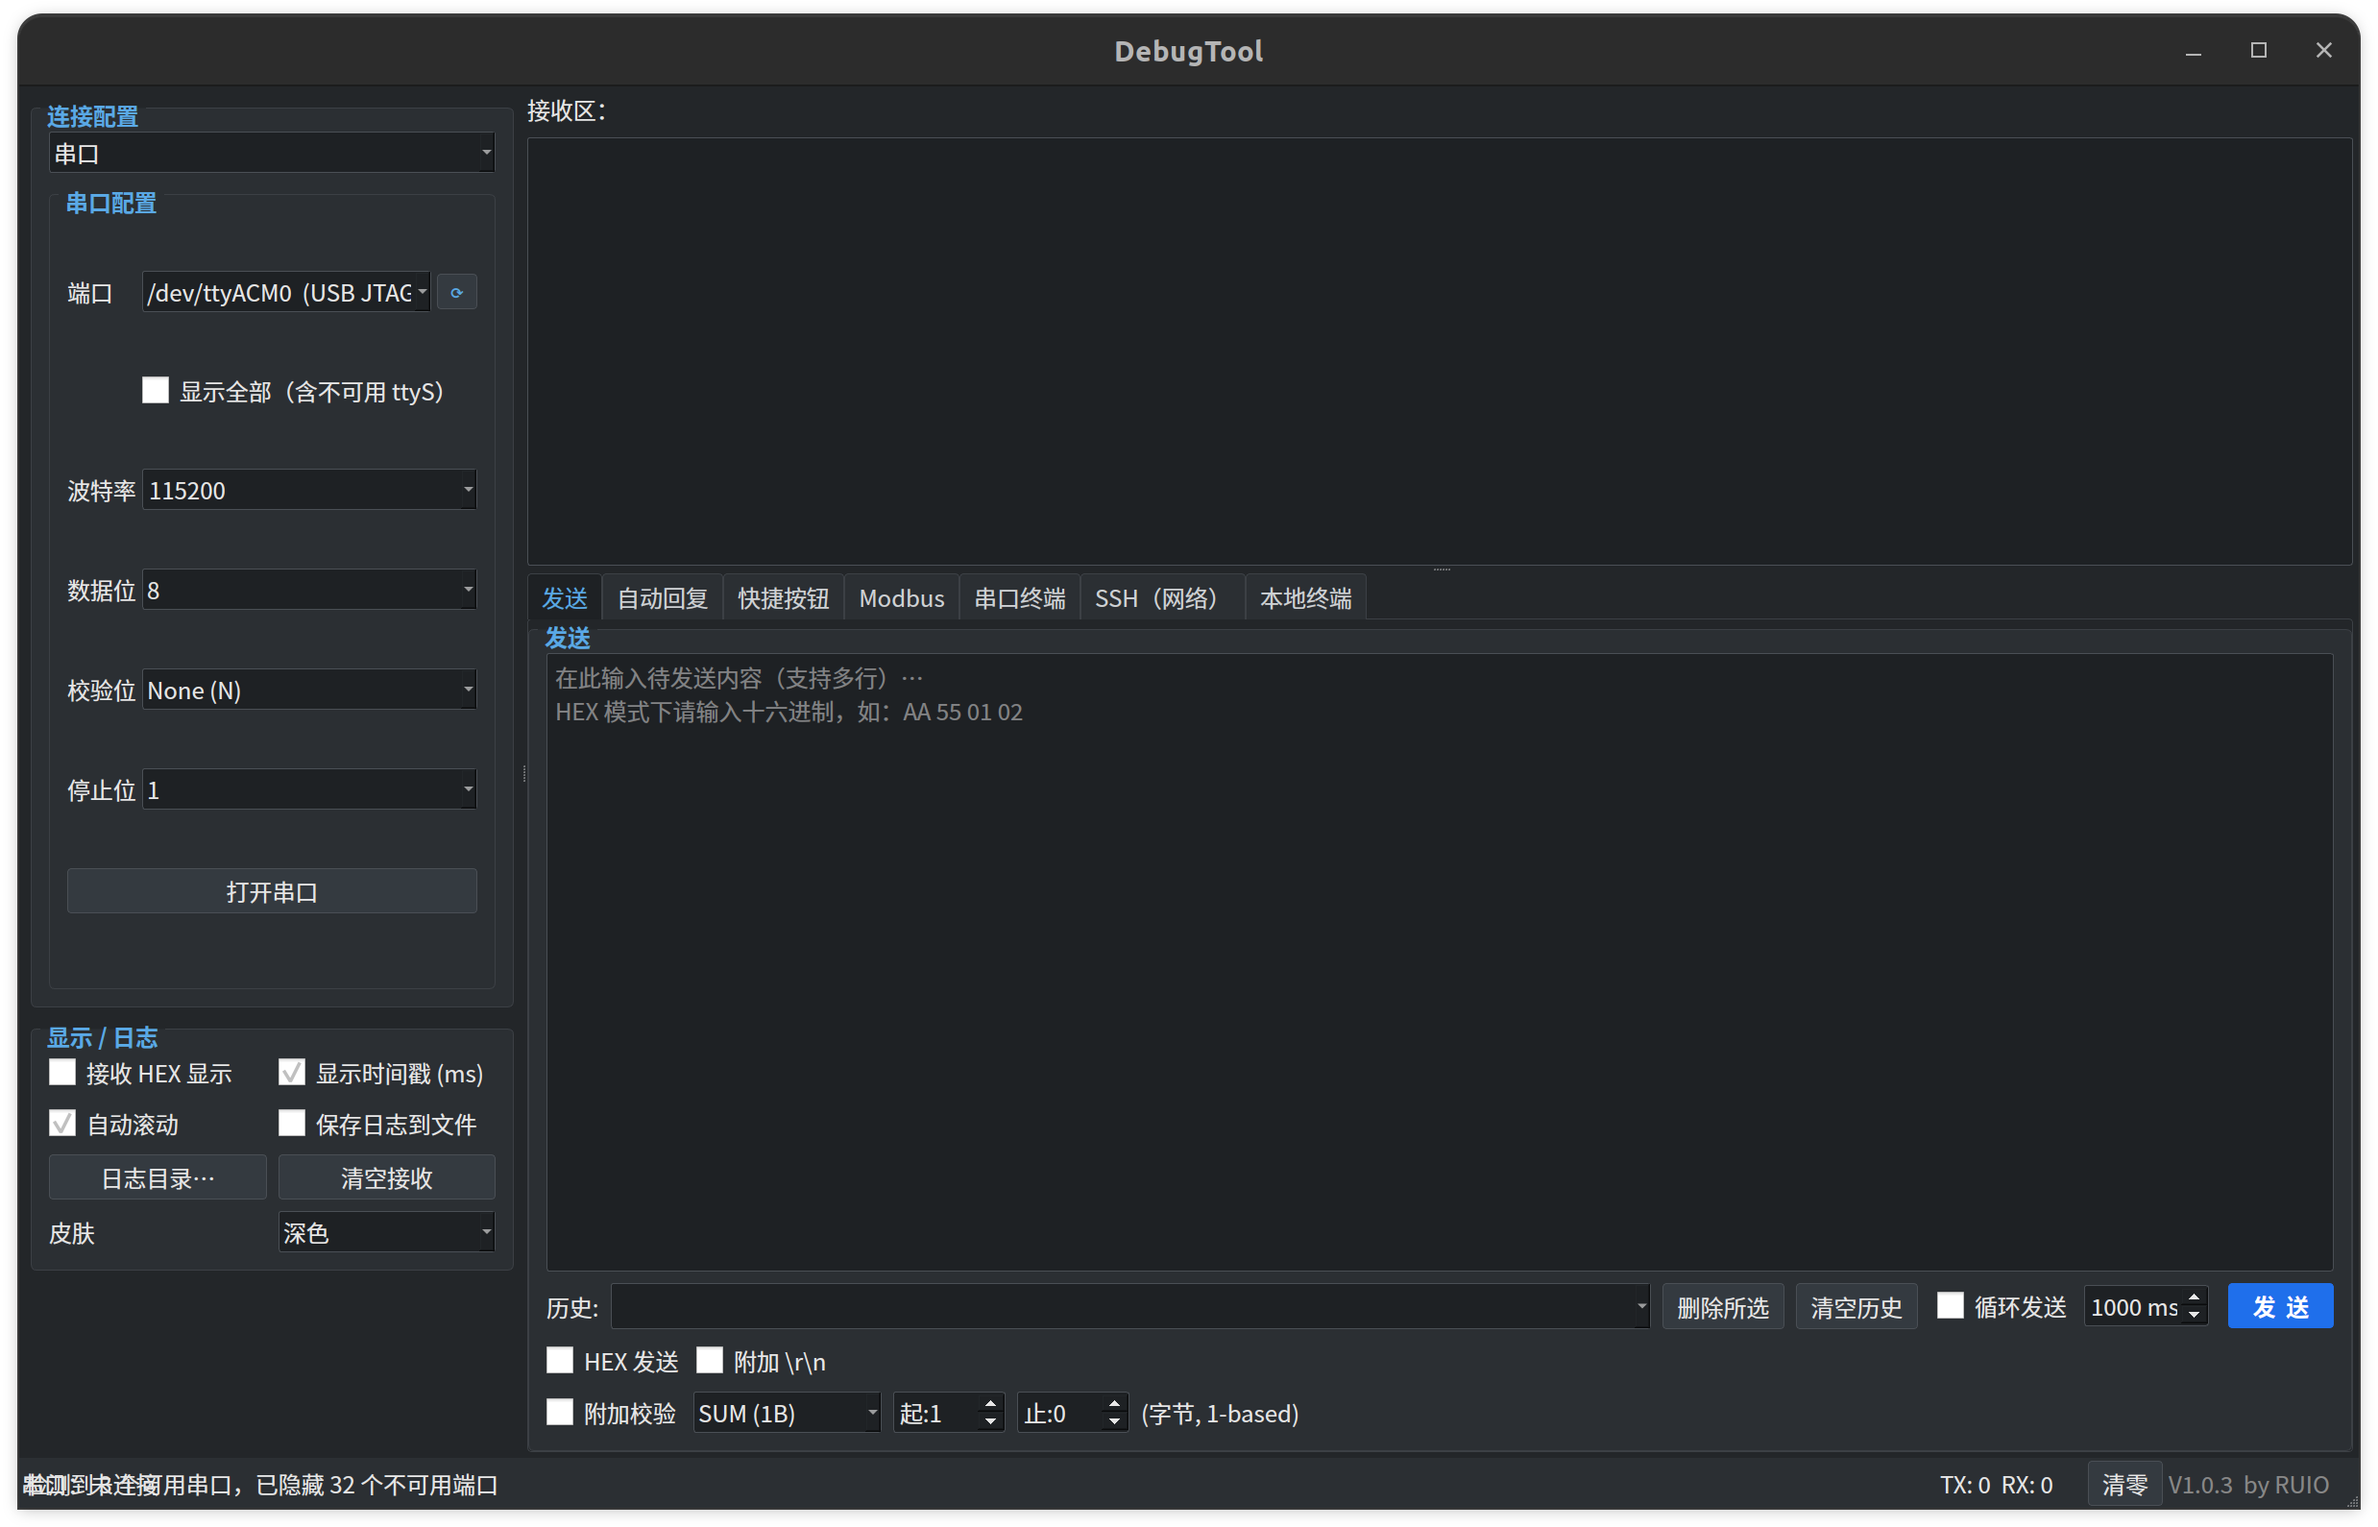
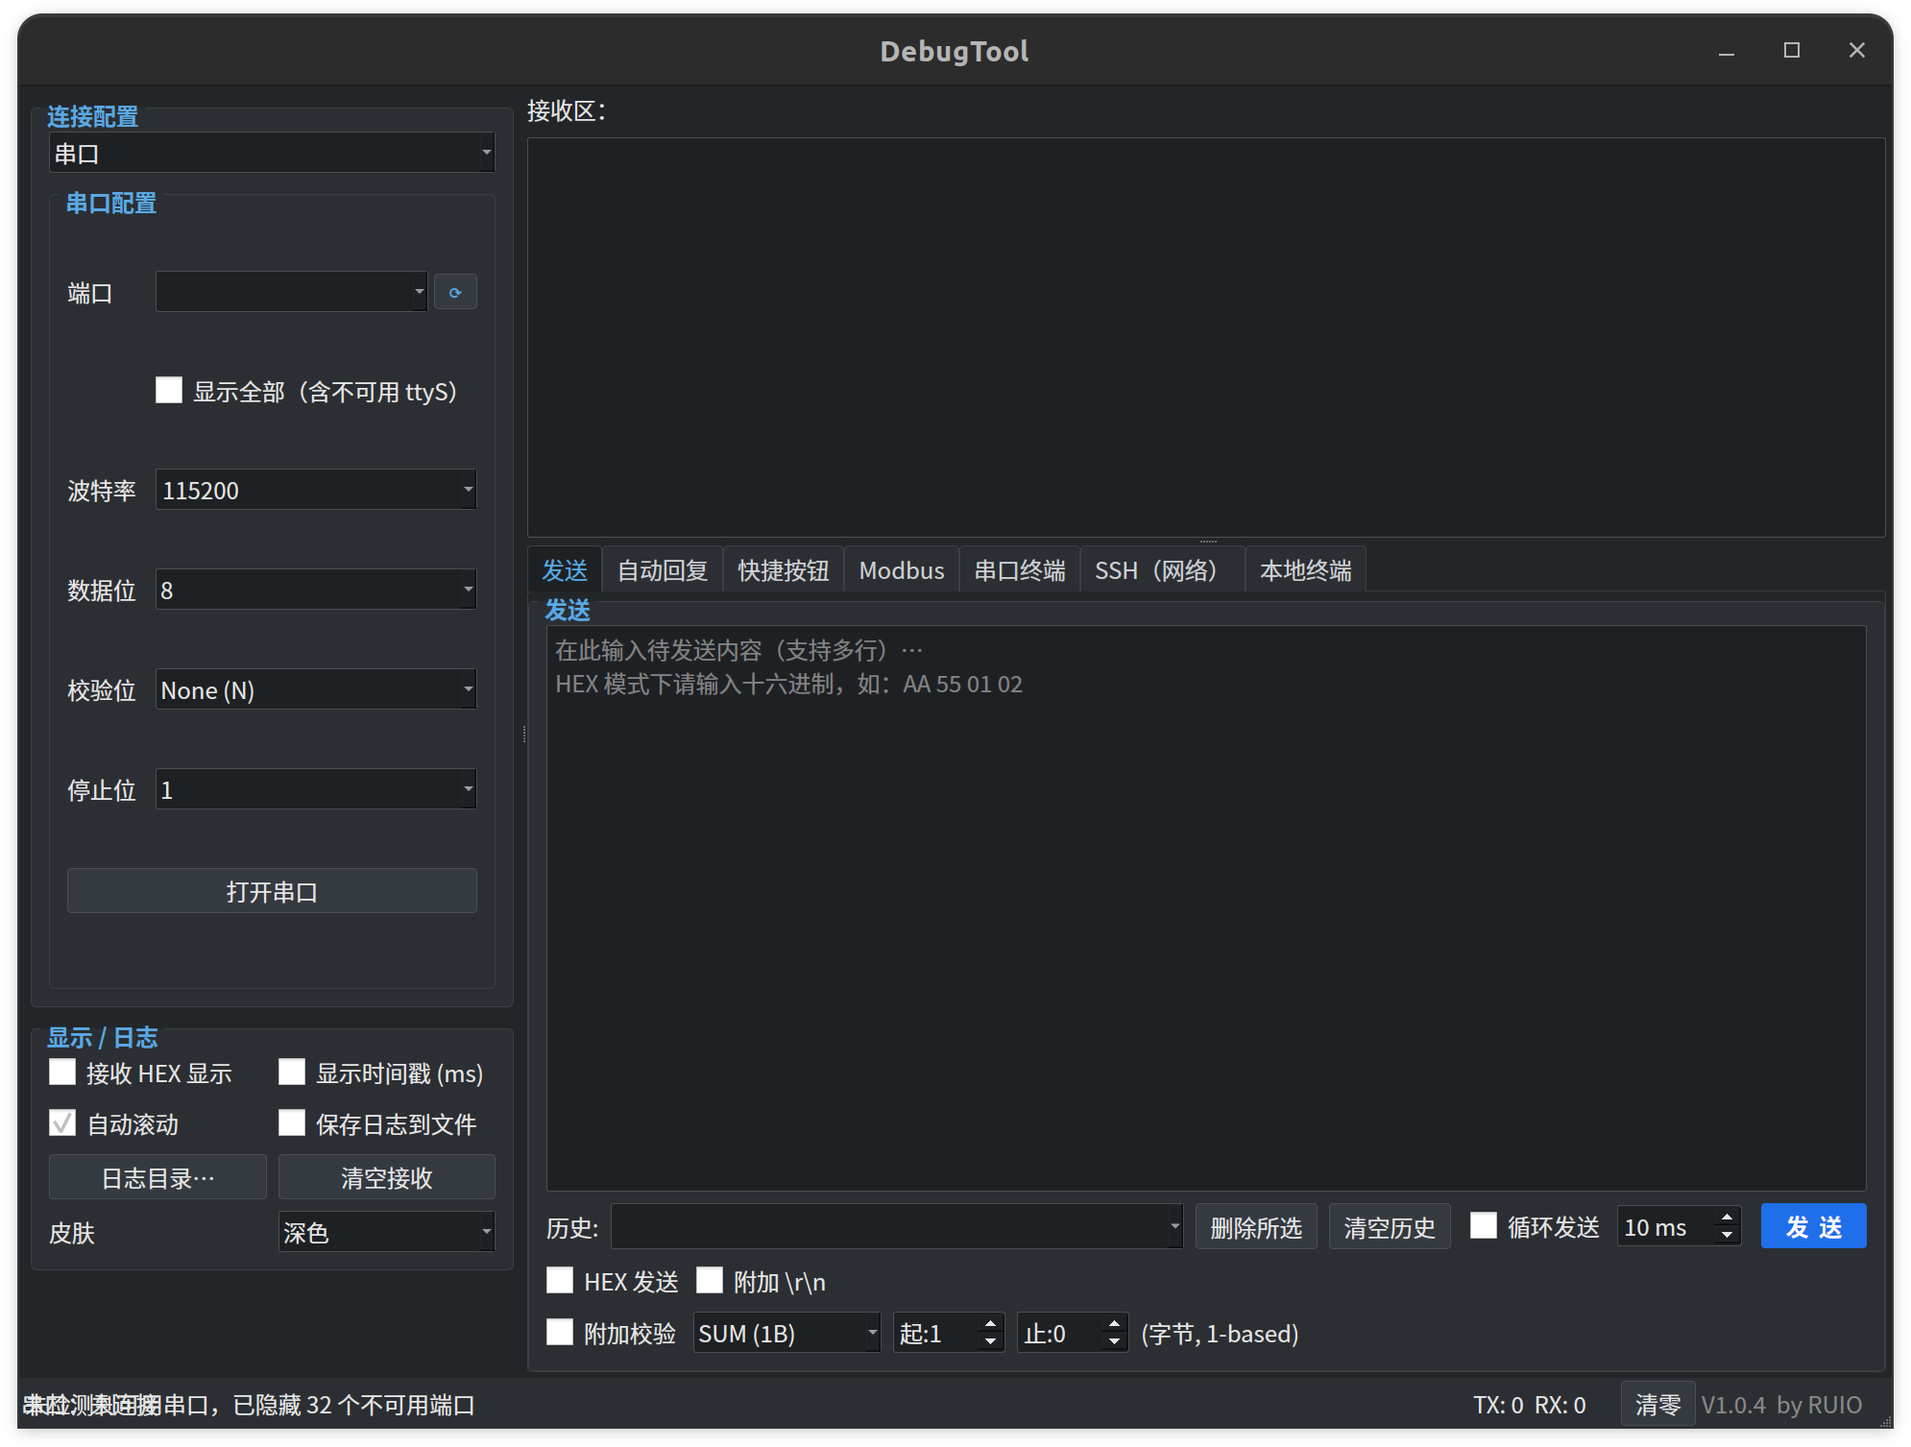
增加多指令循环测试

diff --git a/README.md b/README.md
@@ -9,8 +9,7 @@
 - **协议**：MIT License
 
 ---
-![V1.0.3 深色主题](image.png)
-主图为 V1.0.3 实际界面。
+![V1.0.4 深色主题](image.png)
 
 ## ✨ 功能特性
 
